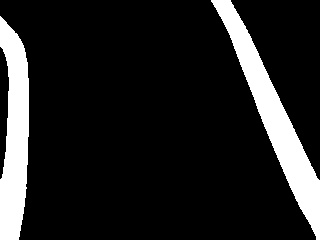
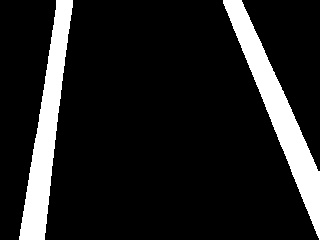
차선 슬라이딩 윈도우 검색안되는 버그 수정

Changed region(s): [[0.0, 0.0, 0.25, 1.0], [0.6562, 0.0, 1.0, 1.0]]

diff --git a/sliding_window/lane_detector.py b/sliding_window/lane_detector.py
@@ -85,56 +85,66 @@ class LaneDetector:
         return l_pos, r_pos, out_img
 
     def _detect_initial_lanes(self, histogram, mid_point):
-        """
-        전체 영역에서 초기 차선 위치 검출
-
-        Args:
-            histogram (ndarray): 현재 윈도우의 히스토그램
-            mid_point (int): 이미지 중앙점
-
-        Returns:
-            tuple: (leftx_current, rightx_current) 좌/우 차선 x좌표
-        """
-        # 좌측 영역 검출
+        """초기 차선 위치 검출 - 파라미터 조정"""
+        MIN_PEAK_VALUE = 255 * self.min_points  # 더 낮은 임계값 적용
+        
+        # 좌측 차선 검출
         left_histogram = histogram[:mid_point]
         left_max = np.argmax(left_histogram)
-        leftx_current = left_max if np.max(left_histogram) > MIN_PIXELS * 255 else None
+        leftx_current = left_max if np.max(left_histogram) > MIN_PEAK_VALUE else None
 
-        # 우측 영역 검출
-        right_histogram = histogram[mid_point:]
-        right_max = np.argmax(right_histogram) + mid_point
-        rightx_current = right_max if np.max(right_histogram) > MIN_PIXELS * 255 else None
+        # 우측 차선 검출 - 검색 영역 확장
+        right_start = mid_point - 50  # 중앙선 기준 좌측으로 확장
+        right_end = histogram.shape[0]
+        right_histogram = histogram[right_start:right_end]
+        right_max = np.argmax(right_histogram) + right_start
+        rightx_current = right_max if np.max(right_histogram) > MIN_PEAK_VALUE else None
 
         return leftx_current, rightx_current
 
     def _detect_continuous_lanes(self, histogram, lx, rx, img_width):
-        """
-        이전 검출 결과를 기반으로 지역 검색
-
-        Args:
-            histogram (ndarray): 현재 윈도우의 히스토그램
-            lx (list): 이전 좌측 차선 x좌표 목록
-            rx (list): 이전 우측 차선 x좌표 목록
-            img_width (int): 이미지 너비
-
-        Returns:
-            tuple: (leftx_current, rightx_current) 좌/우 차선 x좌표
-        """
+        """연속 프레임 검출 - 배열 크기 체크 추가"""
         leftx_current = rightx_current = None
 
-        # 좌측 차선 검출
         if self.before_l_detected and lx:
             leftx_last = lx[-1]
             left_start = max(0, leftx_last - WINDOW_MARGIN)
             left_end = min(img_width, leftx_last + WINDOW_MARGIN)
-            leftx_current = self._calculate_window_center(histogram, left_start, left_end)
+            
+            # 배열 크기 체크 추가
+            left_histogram = histogram[left_start:left_end]
+            if len(left_histogram) > 0:  # 빈 배열 체크
+                if np.max(left_histogram) > MIN_PIXELS * 255:
+                    leftx_current = np.argmax(left_histogram) + left_start
+            
+            # 우측 차선 검색
+            if not self.before_r_detected:
+                right_start = min(img_width, leftx_last + LANE_WIDTH)
+                right_end = min(img_width, right_start + 2 * WINDOW_MARGIN)
+                right_histogram = histogram[right_start:right_end]
+                if len(right_histogram) > 0:  # 빈 배열 체크
+                    if np.max(right_histogram) > MIN_PIXELS * 255:
+                        rightx_current = np.argmax(right_histogram) + right_start
 
-        # 우측 차선 검출
         if self.before_r_detected and rx:
             rightx_last = rx[-1]
             right_start = max(0, rightx_last - WINDOW_MARGIN)
             right_end = min(img_width, rightx_last + WINDOW_MARGIN)
-            rightx_current = self._calculate_window_center(histogram, right_start, right_end)
+            
+            # 배열 크기 체크 추가
+            right_histogram = histogram[right_start:right_end]
+            if len(right_histogram) > 0:  # 빈 배열 체크
+                if np.max(right_histogram) > MIN_PIXELS * 255:
+                    rightx_current = np.argmax(right_histogram) + right_start
+            
+            # 좌측 차선 검색
+            if not self.before_l_detected:
+                left_end = max(0, rightx_last - LANE_WIDTH)
+                left_start = max(0, left_end - 2 * WINDOW_MARGIN)
+                left_histogram = histogram[left_start:left_end]
+                if len(left_histogram) > 0:  # 빈 배열 체크
+                    if np.max(left_histogram) > MIN_PIXELS * 255:
+                        leftx_current = np.argmax(left_histogram) + left_start
 
         return leftx_current, rightx_current
 
